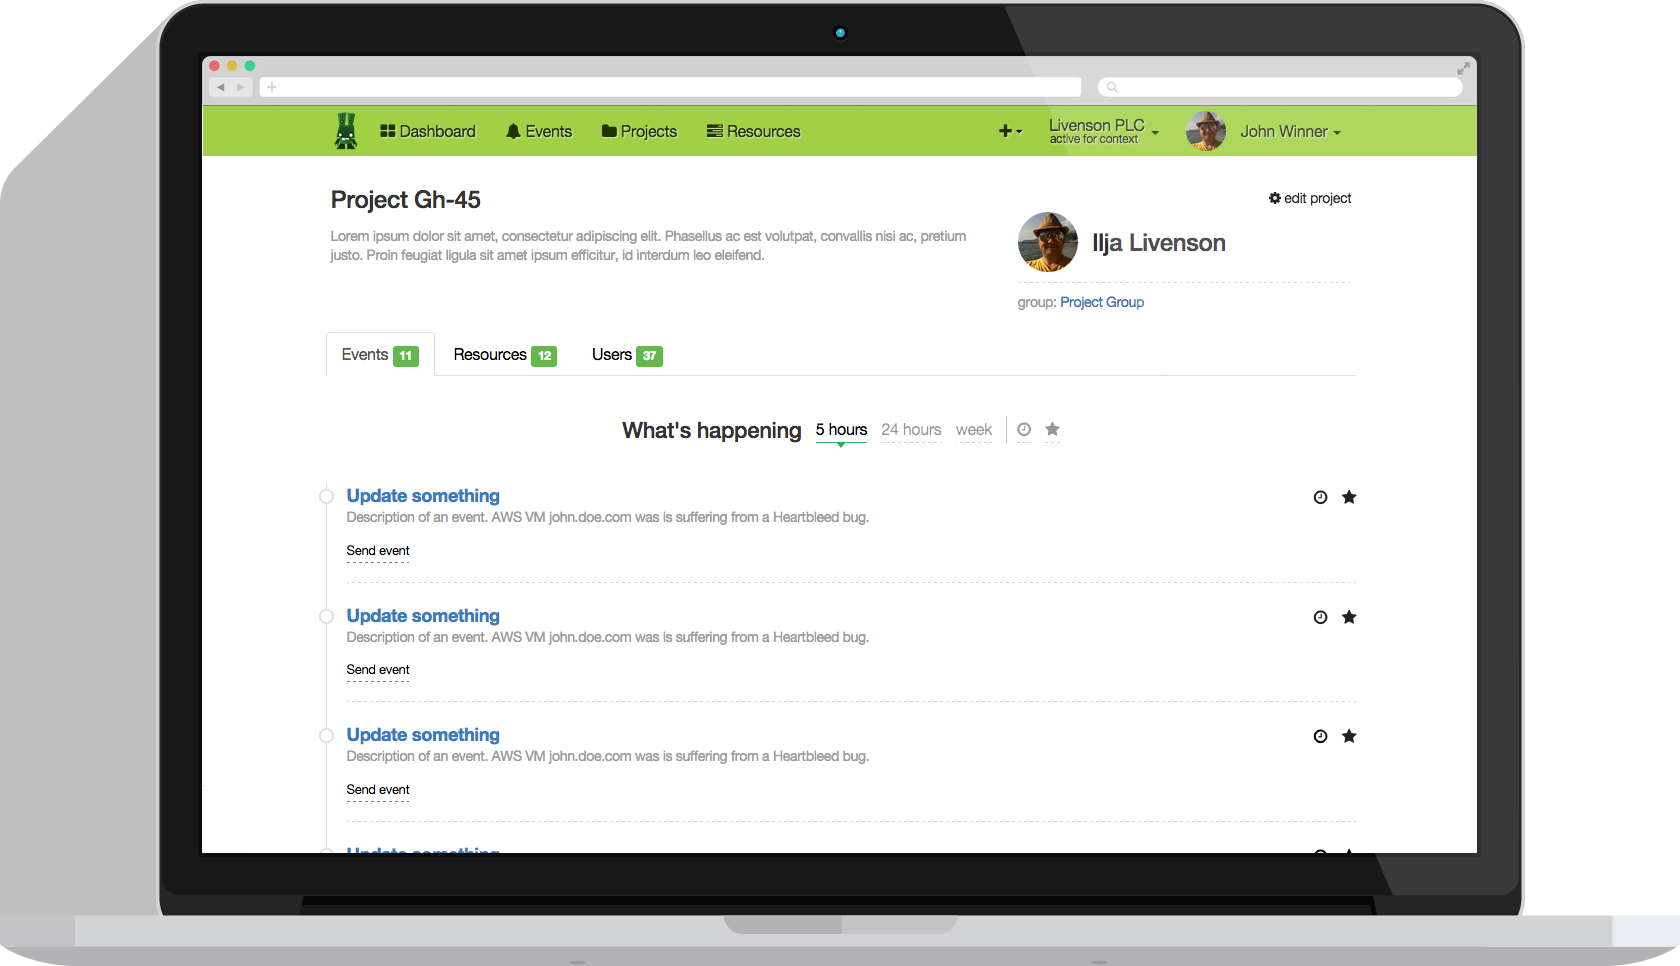
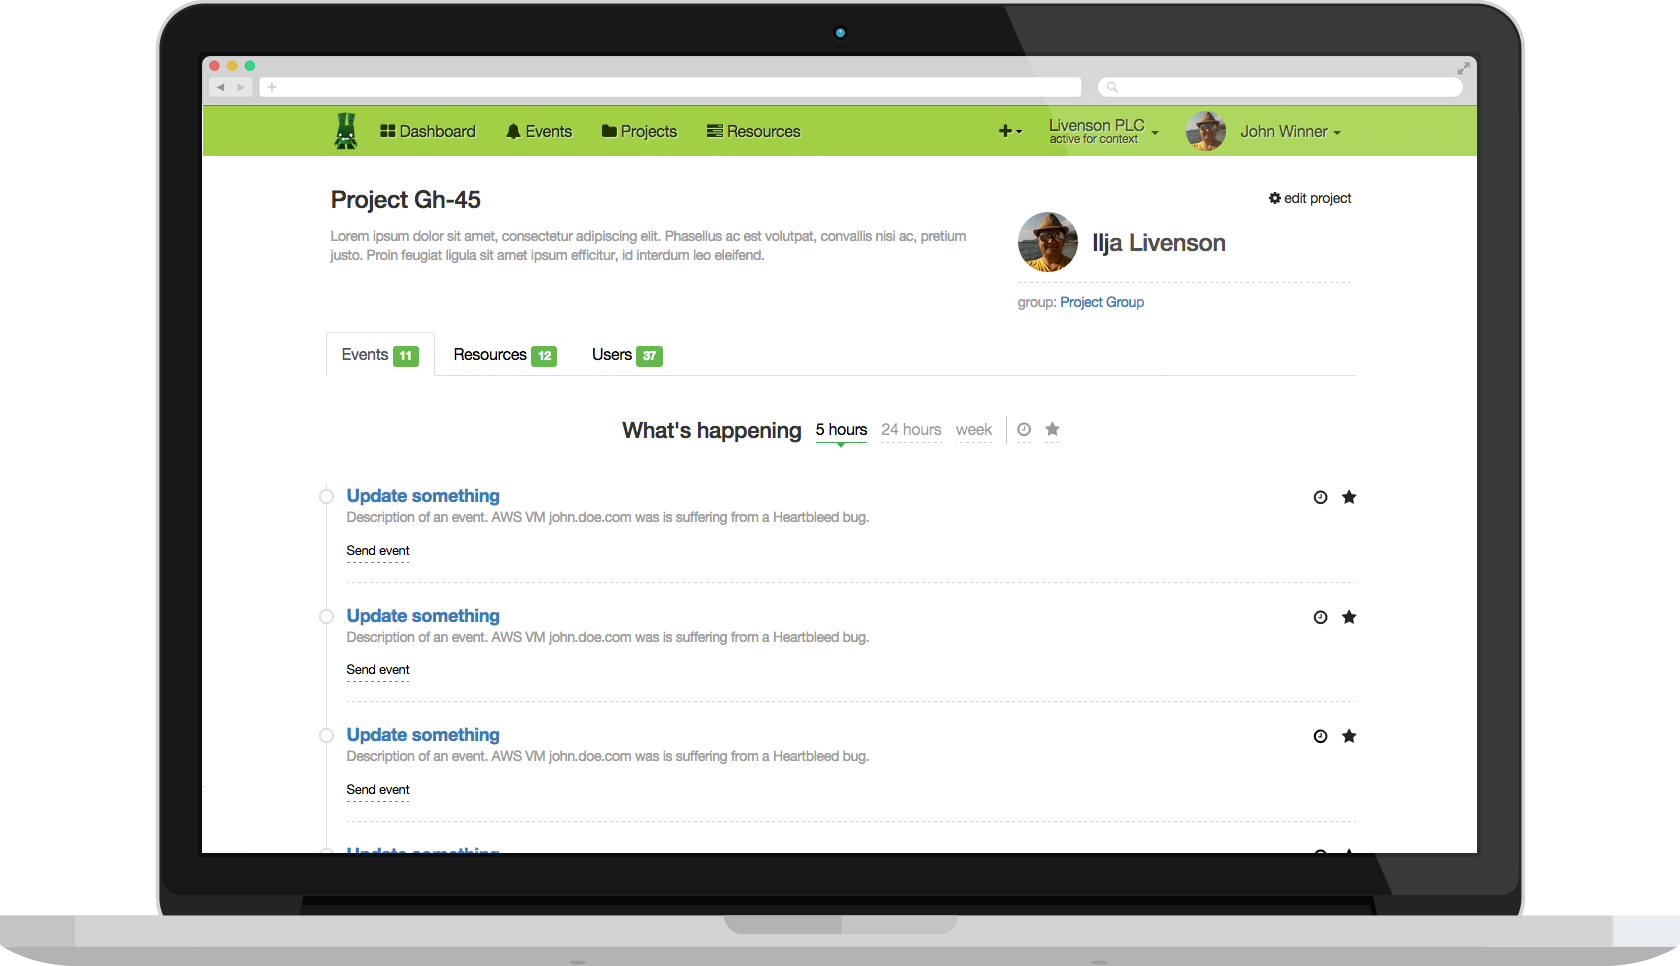
header v1

Changed region(s): [[0.0, 0.0311, 0.0929, 0.9627]]

diff --git a/templates/index.html b/templates/index.html
@@ -2,6 +2,72 @@
 
 {% block content %}
 <div class="site-welcome" data-role="slide">
-    <div class="interface-show" data-role="slide"></div>
+    <div class="container-fluid">
+        <h1>Remove the boring aspects of system administration and concentrate on the fun stuff.</h1>
+        <img src="{{ url_for('static', filename='images/site-welcome.png')}}" alt="" class="interface-screen" data-role="interface-screen">
+        <div class="tour-box" data-role="take-a-tour">
+            <a class="take-a-tour btn btn-default">Take a tour</a>
+        </div>
+    </div>
 </div>
+
+<section class="site-block landing-block">
+    <div class="container-fluid">
+        <div class="row">
+            <div class="col-xs-4">
+                <div class="product-box big-icon mobile">
+                    <h3>Full monitoring</h3>
+                    <p>
+                        System and application monitoring. Autodetection of running applictions.
+                    </p>
+                </div>
+            </div>
+            <div class="col-xs-4">
+                <div class="product-box big-icon graph circle-decor">
+                    <h3>Event tracking</h3>
+                    <p>
+                        Aggregate information from system and application logs. Configurable notifications for non-typical behavior.
+                    </p>
+                </div>
+            </div>
+            <div class="col-xs-4">
+                <div class="product-box big-icon secure circle-decor">
+                    <h3>Reliable backup</h3>
+                    <p>
+                        Encrypted with your key. Stored in 3 replicas across the world. Easy restoration. Regular validations.
+                    </p>
+                </div>
+            </div>
+        </div>
+
+        <div class="row">
+            <div class="col-xs-4">
+                <div class="product-box big-icon cloud">
+                    <h3>Cloud-agnostic</h3>
+                    <p>
+                        OpenStack, VMware, AWS, Rackspace or a standalone server - the choice is yours.
+                    </p>
+                </div>
+            </div>
+            
+            <div class="col-xs-4">
+                <div class="product-box big-icon lab circle-decor">
+                    <h3>One-click deployment</h3>
+                    <p>
+                        Leverage a library of pre-made applications from OpenNode and Turnkeylinux. Atlassian JIRA, Zabbix, Joomla, Drupal and much more.
+                    </p>
+                </div>
+            </div>
+
+            <div class="col-xs-4">
+                <div class="product-box big-icon tools circle-decor">
+                    <h3>Traceable changes</h3>
+                    <p>
+                        All modifications to the system are recorded and timestamped. You have the full audit trail.
+                    </p>
+                </div>
+            </div>
+        </div>
+    </div>
+</section>
 {% endblock %}

diff --git a/static/css/style.css b/static/css/style.css
@@ -6963,6 +6963,9 @@ time.date {
   margin: 0;
   background: #9ECF5D;
 }
+.navbar.site-header {
+  background: #fff;
+}
 
 .nav .open > a, .nav .open > a:hover, .nav .open > a:focus {
   background-color: transparent;
@@ -8075,17 +8078,42 @@ time.date {
 
 .site-welcome {
   position: relative;
-  background: -webkit-radial-gradient(center, ellipse, #89d087 0%, #3b9239 100%);
-  background: radial-gradient(ellipse at center, #89d087 0%, #3b9239 100%);
+  background: -webkit-radial-gradient(center, ellipse, #F7F7F7 0%, #D8D8D8 100%);
+  background: radial-gradient(ellipse at center, #F7F7F7 0%, #D8D8D8 100%);
   -webkit-background-size: cover;
           background-size: cover;
+  overflow: hidden;
 }
-.site-welcome .interface-show {
-  width: 60%;
-  background: url(../images/site-welcome.png) no-repeat 50% 50%;
-  -webkit-background-size: 100% 100%;
-          background-size: 100%;
-  position: absolute;
-  top: 0px;
-  right: -80px;
+.site-welcome h1 {
+  font-weight: 400;
+  font-size: 4.5rem;
+  line-height: 1;
+  color: #000;
+  margin: 20px 0;
+  text-align: center;
+}
+.site-welcome .interface-screen {
+  display: block;
+  margin: 0 auto;
+}
+.site-welcome .tour-box {
+  text-align: center;
+  margin: 20px 0;
+}
+.site-welcome .take-a-tour {
+  background-color: #7db243;
+  -webkit-border-radius: 4px;
+          border-radius: 4px;
+  font-size: 3rem;
+  color: #fff;
+  text-shadow: 1px 1px 1px rgba(0, 0, 0, 0.28);
+  border-bottom: 2px solid #2d6c09;
+}
+.site-welcome .take-a-tour:hover {
+  background-color: #72A53A;
+}
+.site-welcome .take-a-tour:active {
+  border-color: transparent;
+  position: relative;
+  top: 2px;
 }

diff --git a/dev/sass/blocks/site-welcome.scss b/dev/sass/blocks/site-welcome.scss
@@ -1,14 +1,42 @@
 .site-welcome {
     position: relative;
     // background-image: url(../images/land-back.jpg);
-    background: radial-gradient(ellipse at center, #89d087 0%, #3b9239 100%);
+    background: radial-gradient(ellipse at center, #F7F7F7 0%, #D8D8D8 100%);
     background-size: cover;
-    .interface-show {
-        width: 60%;
-        background: url(../images/site-welcome.png) no-repeat 50% 50%;
-        background-size: 100%;
-        position: absolute;
-        top: 0px;
-        right: -80px;
+    overflow: hidden;
+    h1 {
+        font-weight: 400;
+        font-size: rem(45);
+        line-height: 1;
+        color: #000;
+        margin: 20px 0;
+        text-align: center;
     }
+    .interface-screen {
+        // position: relative;
+        // right: -100px;
+        display: block;
+        margin: 0 auto;
+    }
+    .tour-box {
+        text-align: center;
+        margin: 20px 0;
+    }
+    .take-a-tour {
+        background-color: rgb(125, 178, 67);
+        border-radius: 4px;
+        font-size: rem(30);
+        // padding: 6px 15px;
+        color: #fff;
+        text-shadow: 1px 1px 1px rgba(0, 0, 0, 0.28);
+        border-bottom: 2px solid rgb(45, 108, 9);
+        &:hover {
+            background-color: #72A53A;
+        }
+        &:active {
+            border-color: transparent;
+            position: relative;
+            top: 2px;
+        }
+    } // take-a-tour
 } // site-welcome

diff --git a/dev/css/style.css b/dev/css/style.css
@@ -6844,6 +6844,9 @@ time.date {
   margin: 0;
   background: #9ECF5D;
 }
+.navbar.site-header {
+  background: #fff;
+}
 
 .nav .open > a, .nav .open > a:hover, .nav .open > a:focus {
   background-color: transparent;
@@ -7912,16 +7915,41 @@ time.date {
 
 .site-welcome {
   position: relative;
-  background: radial-gradient(ellipse at center, #89d087 0%, #3b9239 100%);
+  background: radial-gradient(ellipse at center, #F7F7F7 0%, #D8D8D8 100%);
   background-size: cover;
+  overflow: hidden;
 }
-.site-welcome .interface-show {
-  width: 60%;
-  background: url(../images/site-welcome.png) no-repeat 50% 50%;
-  background-size: 100%;
-  position: absolute;
-  top: 0px;
-  right: -80px;
+.site-welcome h1 {
+  font-weight: 400;
+  font-size: 4.5rem;
+  line-height: 1;
+  color: #000;
+  margin: 20px 0;
+  text-align: center;
+}
+.site-welcome .interface-screen {
+  display: block;
+  margin: 0 auto;
+}
+.site-welcome .tour-box {
+  text-align: center;
+  margin: 20px 0;
+}
+.site-welcome .take-a-tour {
+  background-color: #7db243;
+  border-radius: 4px;
+  font-size: 3rem;
+  color: #fff;
+  text-shadow: 1px 1px 1px rgba(0, 0, 0, 0.28);
+  border-bottom: 2px solid #2d6c09;
+}
+.site-welcome .take-a-tour:hover {
+  background-color: #72A53A;
+}
+.site-welcome .take-a-tour:active {
+  border-color: transparent;
+  position: relative;
+  top: 2px;
 }
 
 /*# sourceMappingURL=style.css.map */

diff --git a/static/js/production.js b/static/js/production.js
@@ -11303,10 +11303,15 @@ return jQuery;
     // welcome slide
     function siteSlide() {
         var slide = $('[data-role="slide"]');
+        var slideImage = $('[data-role="interface-screen"]')
+        var slideTitle = slide.find('h1');
         var header = $('[data-role="header"]');
         var slideHeight = $(window).height()-header.height();
+        var takeTour = $('[data-role="take-a-tour"]');
         
         slide.css('min-height', slideHeight);
+        slideImage.css('height', slideHeight-(slideTitle.height()+takeTour.height()+80));
+
     }
 
     // sort by name – search field in projects th

diff --git a/dev/js/scripts.js b/dev/js/scripts.js
@@ -4,10 +4,15 @@
     // welcome slide
     function siteSlide() {
         var slide = $('[data-role="slide"]');
+        var slideImage = $('[data-role="interface-screen"]')
+        var slideTitle = slide.find('h1');
         var header = $('[data-role="header"]');
         var slideHeight = $(window).height()-header.height();
+        var takeTour = $('[data-role="take-a-tour"]');
         
         slide.css('min-height', slideHeight);
+        slideImage.css('height', slideHeight-(slideTitle.height()+takeTour.height()+80));
+
     }
 
     // sort by name – search field in projects th

diff --git a/templates/includes/site-header.html b/templates/includes/site-header.html
@@ -1,5 +1,5 @@
 <!-- header -->
-<div class="app-header navbar navbar-fixed-top" role="navigation" data-role="header">
+<div class="app-header site-header navbar navbar-fixed-top" role="navigation" data-role="header">
     <div class="container-fluid">
         <div class="navbar-header">
             <button type="button" class="navbar-toggle" data-toggle="collapse" data-target=".navbar-collapse">

diff --git a/dev/sass/blocks/app-header.scss b/dev/sass/blocks/app-header.scss
@@ -23,6 +23,9 @@
     border-radius: 0;
     margin: 0;
     background: #9ECF5D;
+    &.site-header {
+        background: #fff;
+    }
 }
 
 .nav .open > a, .nav .open > a:hover, .nav .open > a:focus {
@@ -208,5 +211,3 @@
         outline: 0;
     } // select
 } // custom-select
-
-
